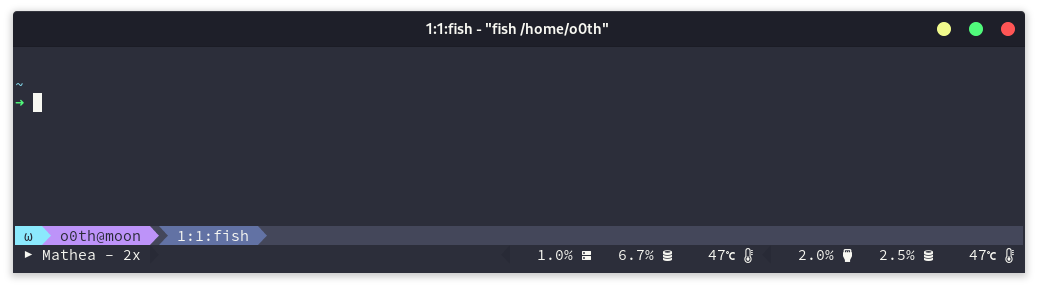
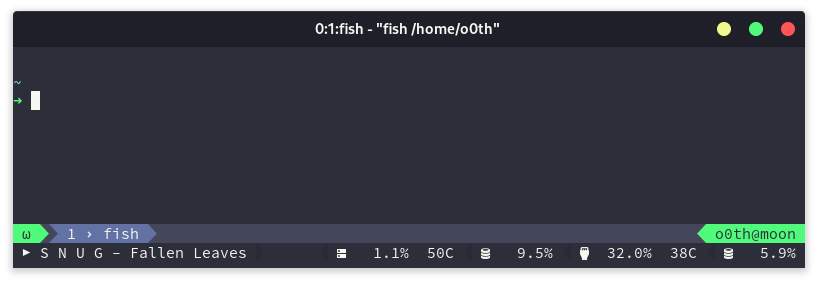
Resolve #10, custom segments

Changed region(s): [[0.0, 0.0283, 1.0, 0.9611]]

diff --git a/Readme.md b/Readme.md
@@ -71,58 +71,55 @@ set -g @nova-nerdfonts false
 
 ```bash
 # default: "#S:#I:#W"
-set -g @nova-pane "#{pane_title}"
+set -g @nova-pane "#I#{?pane_in_mode,  #{pane_mode},}  #W"
 ```
 
-### Plugins
+### Segments
 
 ```bash
-# list from: "mode", "whoami", "spotify", "cpu", "gpu"
-# default configuration:
-set -g @nova-status-left-plugins "mode whoami"
-set -g @nova-status-right-plugins ""
-set -g @nova-status-bottom-left-plugins "spotify"
-set -g @nova-status-bottom-right-plugins "cpu gpu"
+set -g @nova-segments-left "mode"
+set -g @nova-segments-right "whoami"
+
+set -g @nova-double true
+set -g @nova-segments-bottom-right "mode"
+set -g @nova-segments-bottom-left "whoami"
 ```
 
-#### mode
+### Custom segments
+
+Define a custom segment using a cli (e.g.: [spotify-cli-liunx](https://github.com/pwittchen/spotify-cli-linux))
 
 ```bash
-# Change colors background foreground
-set -g @nova-plugins-mode-colors "#8be9fd #282a36"
+set -g @nova-segment-spotify "#(spotifycli --playbackstatus) #(spotifycli --status)"
+set -g @nova-segment-spotify-colors "#282a36 #f8f8f2"
+
+set -g @nova-segments-bottom-left "spotify"
 ```
 
-#### whoami
+Define a custom segment from another tmux plugin (e.g.: [tmux-cpu](https://github.com/tmux-plugins/tmux-cpu))
 
 ```bash
-# Change colors background foreground
-set -g @nova-plugins-whoami-colors "#8be9fd #282a36"
+set -g @plugin 'tmux-plugins/tmux-cpu'
+
+set -g @cpu_percentage_format "%5.1f%%"
+set -g @cpu_temp_format "%3.0f"
+set -g @cpu_temp_unit "C"
+set -g @nova-segment-cpu "CPU #(~/.tmux/plugins/tmux-cpu/scripts/cpu_percentage.sh) #(~/.tmux/plugins/tmux-cpu/scripts/cpu_temp.sh)"
+set -g @nova-segment-cpu-colors "#282a36 #f8f8f2"
+
+set -g @ram_percentage_format "%5.1f%%"
+set -g @nova-segment-ram "RAM #(~/.tmux/plugins/tmux-cpu/scripts/ram_percentage.sh)"
+set -g @nova-segment-ram-colors "#282a36 #f8f8f2"
+
+set -g @gpu_percentage_format "%5.1f%%"
+set -g @gpu_temp_format "%3.0f"
+set -g @gpu_temp_unit "C"
+set -g @nova-segment-gpu "GPU #(~/.tmux/plugins/tmux-cpu/scripts/gpu_percentage.sh) #(~/.tmux/plugins/tmux-cpu/scripts/gpu_temp.sh)"
+set -g @nova-segment-gpu-colors "#282a36 #f8f8f2"
+
+set -g @gram_percentage_format "%5.1f%%"
+set -g @nova-segment-gram "GRAM #(~/.tmux/plugins/tmux-cpu/scripts/gram_percentage.sh)"
+set -g @nova-segment-gram-colors "#282a36 #f8f8f2"
+
+set -g @nova-segments-bottom-right "cpu ram gpu gram"
 ```
-
-#### spotify
-
-Requirements: [pwittchen/spotify-cli-linux](https://github.com/pwittchen/spotify-cli-linux)
-
-```bash
-# Change colors background foreground
-set -g @nova-plugins-spotify-colors "#282a36 #f8f8f2"
-```
-
-#### cpu
-
-Requirements: [tmux-plugins/tmux-cpu](https://github.com/tmux-plugins/tmux-cpu)
-
-```bash
-# Change colors background foreground
-set -g @nova-plugins-cpu-colors "#282a36 #f8f8f2"
-```
-
-#### gpu
-
-Requirements: [tmux-plugins/tmux-cpu](https://github.com/tmux-plugins/tmux-cpu)
-
-```bash
-# Change colors background foreground
-set -g @nova-plugins-gpu-colors "#282a36 #f8f8f2"
-```
-
